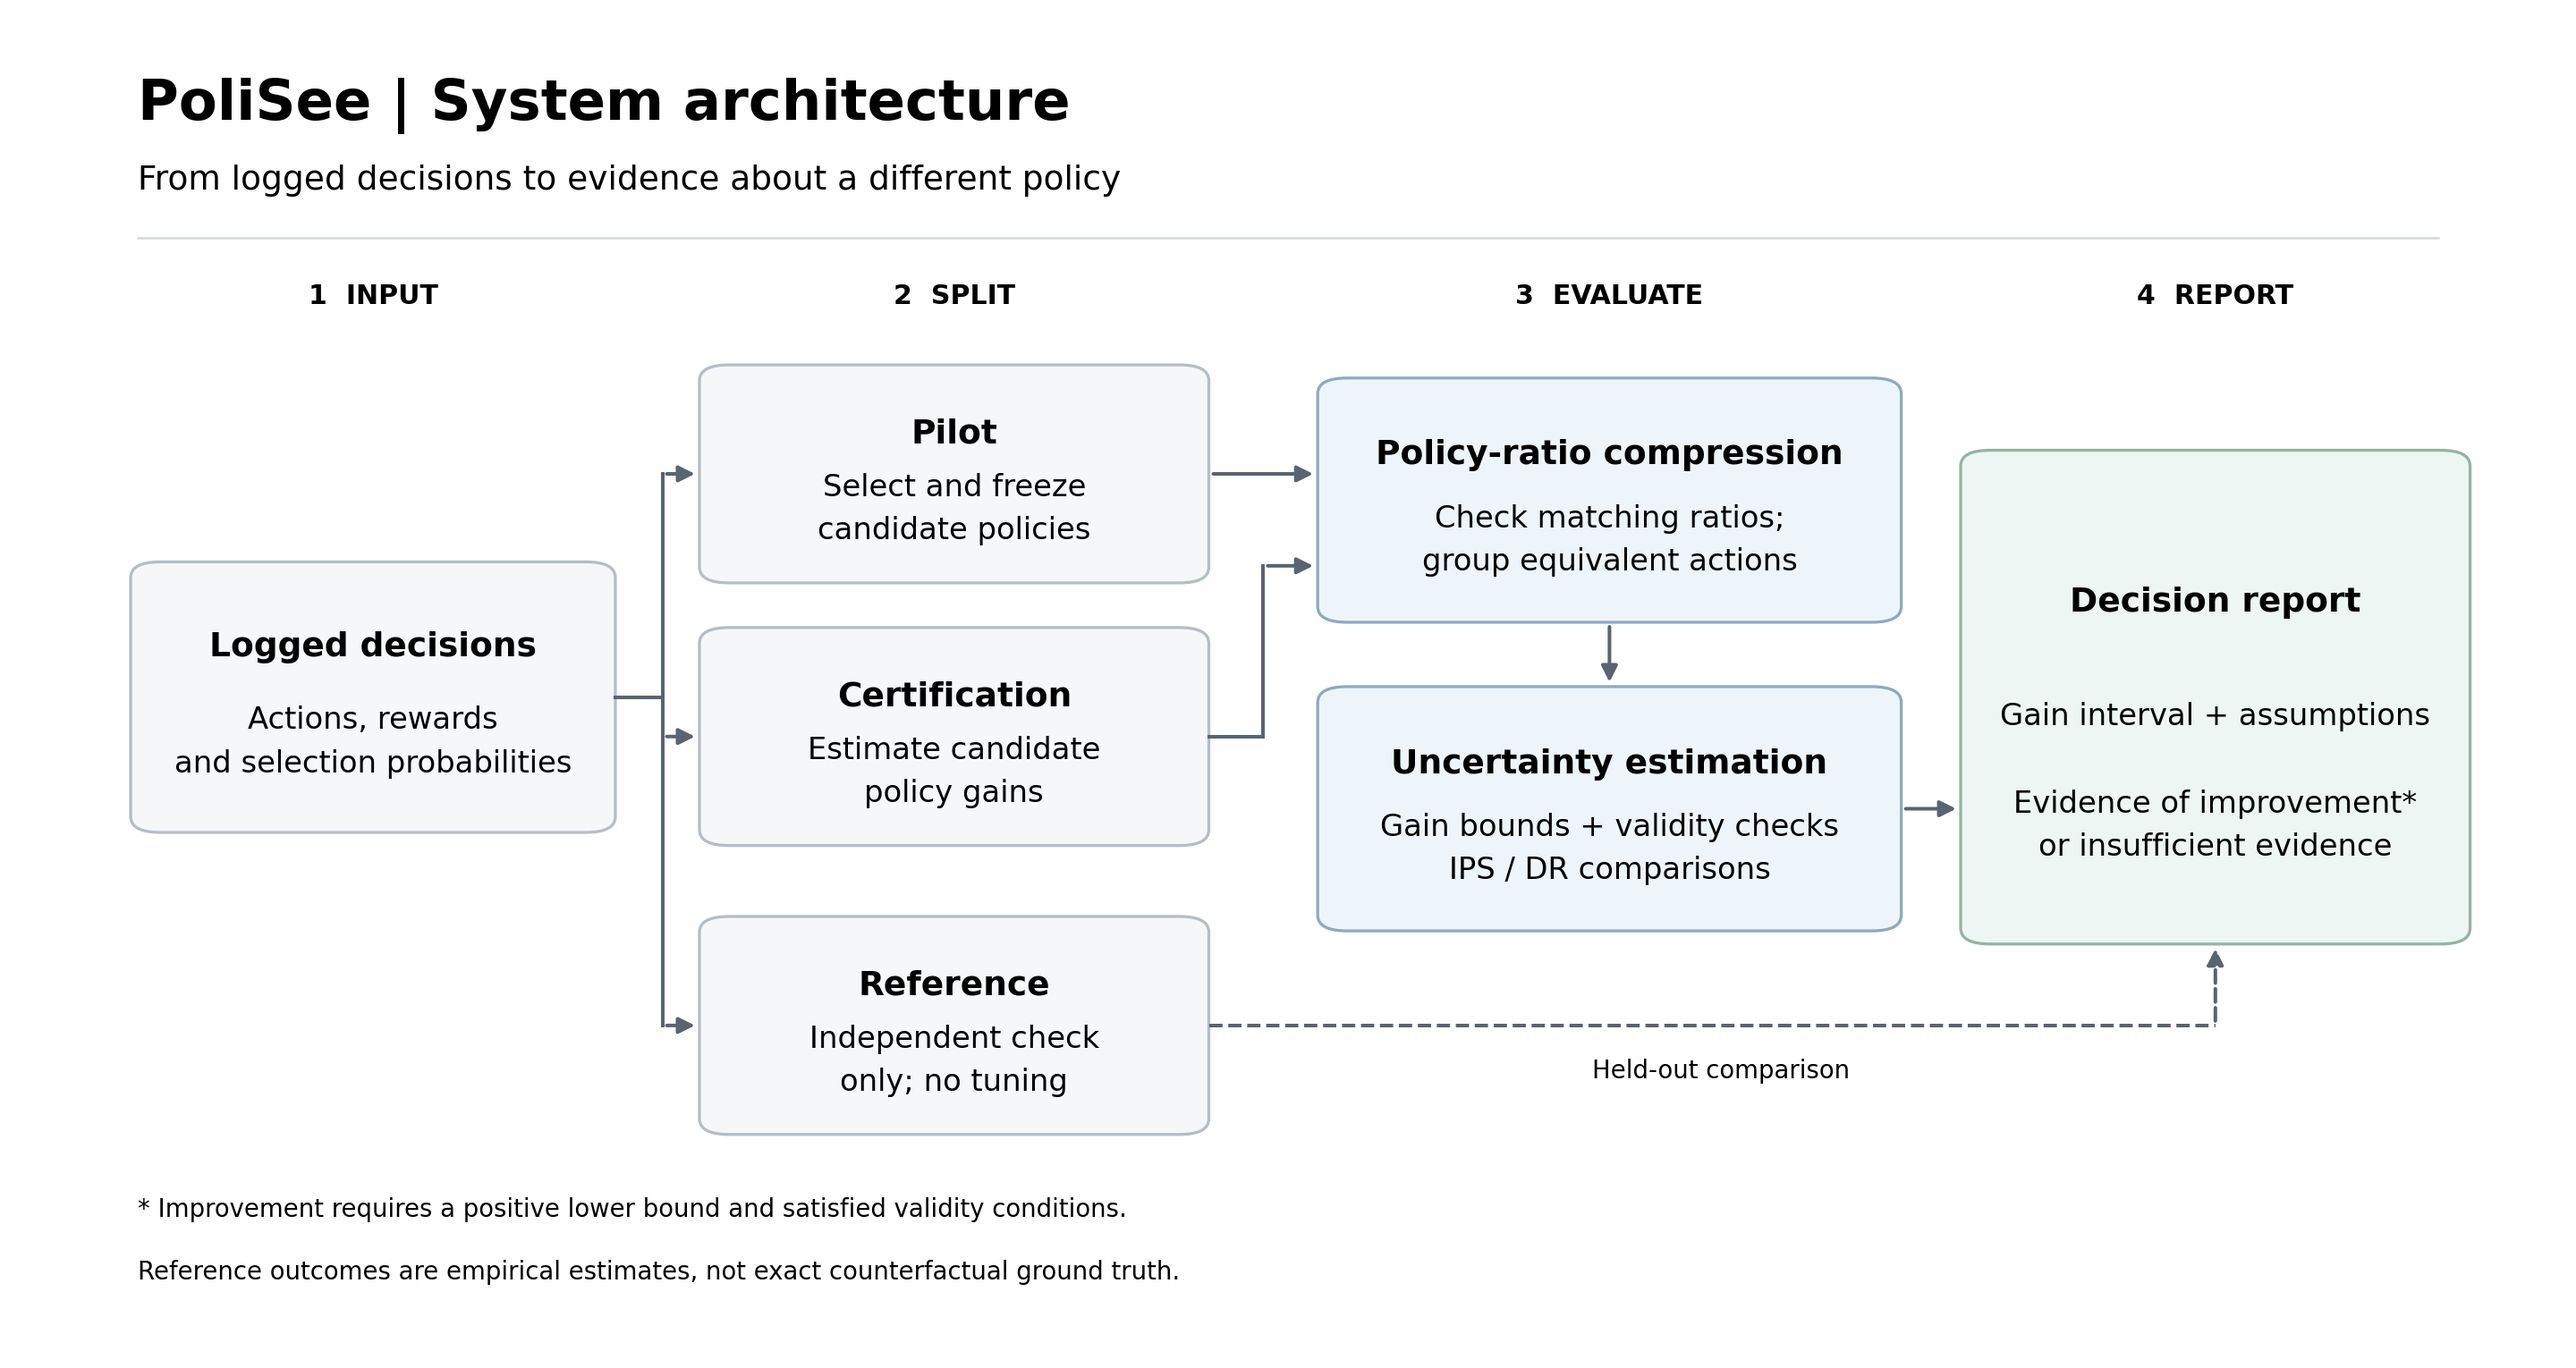
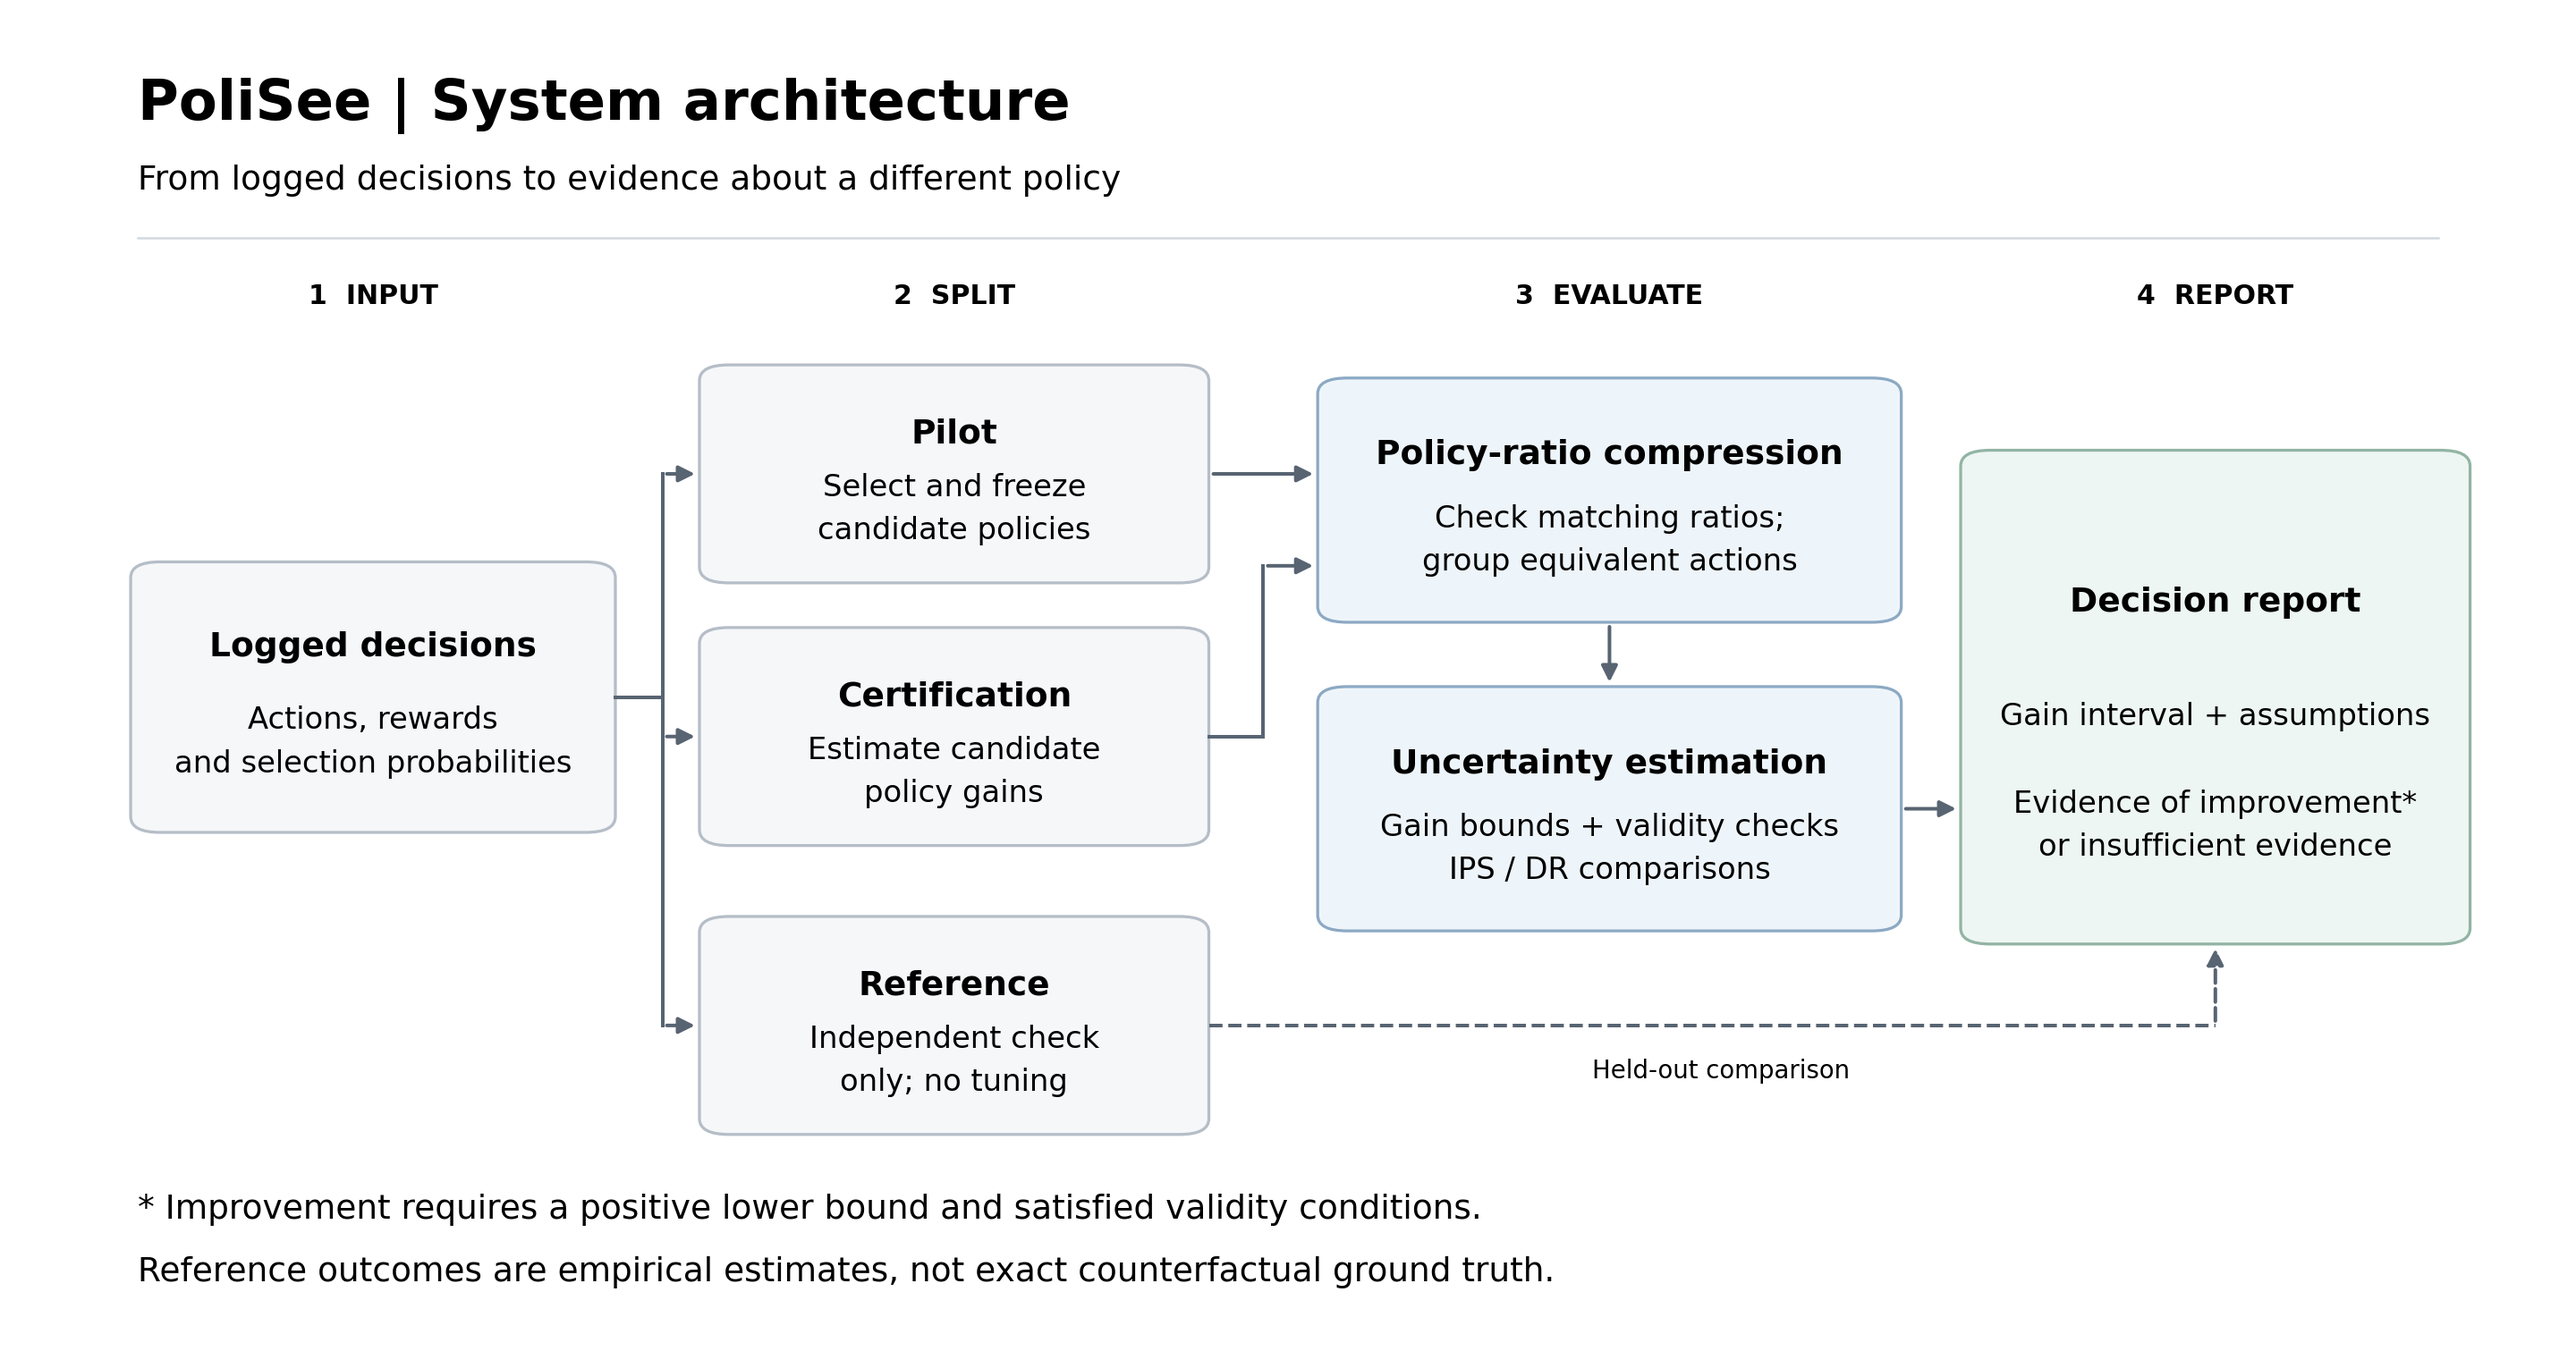
Justify abstract paragraphs and enlarge architecture notes

Changed region(s): [[0.0625, 0.9216, 0.5938, 0.9523], [0.0625, 0.8601, 0.5625, 0.8908]]

diff --git a/obd_research_2026_10_30/build_submission.py b/obd_research_2026_10_30/build_submission.py
@@ -29,8 +29,8 @@ def clean(s):
     for old,new in [('—','-'),('–','-'),('−','-'),('‑','-'),('“','"'),('”','"'),('’',"'")]:s=s.replace(old,new)
     return s
 def markup(s):return re.sub(r'\*\*(.*?)\*\*',r'<b>\1</b>',escape(clean(s)))
-def para(c,text,x,y,w,size=9.5,leading=12.5,color=INK,bold=False):
-    p=Paragraph(markup(text),ParagraphStyle('p',fontName='DVB' if bold else 'DV',fontSize=size,leading=leading,textColor=color))
+def para(c,text,x,y,w,size=9.5,leading=12.5,color=INK,bold=False,justify=False):
+    p=Paragraph(markup(text),ParagraphStyle('p',fontName='DVB' if bold else 'DV',fontSize=size,leading=leading,textColor=color,alignment=4 if justify else 0))
     _,h=p.wrap(w,1000);p.drawOn(c,x,y-h);return y-h
 def footer(c,page):
     c.setStrokeColor(LINE);c.line(42,37,W-42,37);c.setFont('DV',CAPTION_SIZE);c.setFillColor(INK)
@@ -64,11 +64,11 @@ def abstract_page(c,text):
         if kind=='head' and s=='Novelty and differentiation':
             footer(c,1);c.showPage();page=2;header(c)
             y=805
-        y=para(c,s,42,y,W-84,12 if kind=='head' else size,15 if kind=='head' else 13.3,INK,kind=='head')
+        y=para(c,s,42,y,W-84,12 if kind=='head' else size,15 if kind=='head' else 13.3,INK,kind=='head',justify=kind=='body')
         y-=5 if kind=='head' else 8
         if y<49:raise RuntimeError(f'Abstract page {page} overflow at {s[:40]}')
     y=chart(c,'02_policy_certificate.png',42,y-2,W-84)
-    y=para(c,'Primary OBD split, selected top-20 candidate. Finite-sample methods account for the five-candidate family; DR/Wald is asymptotic. The shaded band describes uncertainty in the independent reference, not counterfactual ground truth.',42,y-6,W-84,10.2,13.3)
+    y=para(c,'Primary OBD split, selected top-20 candidate. Finite-sample methods account for the five-candidate family; DR/Wald is asymptotic. The shaded band describes uncertainty in the independent reference, not counterfactual ground truth.',42,y-6,W-84,10.2,13.3,justify=True)
     if y<49:raise RuntimeError(f'Certificate figure overflow: {y}')
     footer(c,2);return size
 
@@ -96,11 +96,11 @@ def evidence_page(c):
         para(c,title,x+8,702,139,CAPTION_SIZE,CAPTION_LEADING,bold=True);para(c,body,x+8,687,139,CAPTION_SIZE,CAPTION_LEADING)
     para(c,'Exact reduction: Δ = (1-k/A) × (q_top - q_rest). Unequal item rewards are allowed.',42,653,W-84,CAPTION_SIZE,CAPTION_LEADING,bold=True)
     y=chart(c,'01_obd_counterfactual.png',42,634,W-84)
-    y=para(c,'A. Men’s campaign, first position: 1,358,878 BTS rows and 150,936 Random rows. Bars: pointwise 95% Wald intervals. Raw BTS CTR is a naive proxy; Random CTR is an independent empirical reference.',42,y-6,W-84,CAPTION_SIZE,CAPTION_LEADING)
+    y=para(c,'A. Men’s campaign, first position: 1,358,878 BTS rows and 150,936 Random rows. Bars: pointwise 95% Wald intervals. Raw BTS CTR is a naive proxy; Random CTR is an independent empirical reference.',42,y-6,W-84,CAPTION_SIZE,CAPTION_LEADING,justify=True)
     y=chart(c,'03_ablation.png',42,y-16,W-84)
-    y=para(c,'B. Random/all: five pilot-learned candidates; 183,450 certification rows. Intervals account for candidate selection. Median paired width reduction: 82.6% versus original item likelihood. Grouped exact is the recommended procedure.',42,y-6,W-84,CAPTION_SIZE,CAPTION_LEADING)
-    y=para(c,'Validation: 8,000 synthetic logs × 11 methods; 16 tests. Dependence, drift and slate interference remain limitations. All comparisons are retained.',42,y-9,W-84,CAPTION_SIZE,CAPTION_LEADING)
-    y=para(c,'Sources: Saito et al. (2021); Wasserman et al. (2020); Saito & Joachims (2022); Lee et al. (2026). References, code and results: github.com/ayushman4107/Perceptron-Hackathon',42,y-8,W-84,CAPTION_SIZE,CAPTION_LEADING)
+    y=para(c,'B. Random/all: five pilot-learned candidates; 183,450 certification rows. Intervals account for candidate selection. Median paired width reduction: 82.6% versus original item likelihood. Grouped exact is the recommended procedure.',42,y-6,W-84,CAPTION_SIZE,CAPTION_LEADING,justify=True)
+    y=para(c,'Validation: 8,000 synthetic logs × 11 methods; 16 tests. Dependence, drift and slate interference remain limitations. All comparisons are retained.',42,y-9,W-84,CAPTION_SIZE,CAPTION_LEADING,justify=True)
+    y=para(c,'Sources: Saito et al. (2021); Wasserman et al. (2020); Saito & Joachims (2022); Lee et al. (2026). References, code and results: github.com/ayushman4107/Perceptron-Hackathon',42,y-8,W-84,CAPTION_SIZE,CAPTION_LEADING,justify=True)
     c.linkURL('https://github.com/ayushman4107/Perceptron-Hackathon',(42,y-2,W-42,y+25),relative=0)
     if y<47:raise RuntimeError(f'Evidence page overflow: bottom {y}')
     footer(c,3);return y

diff --git a/obd_research_2026_10_30/build_architecture.py b/obd_research_2026_10_30/build_architecture.py
@@ -38,7 +38,7 @@ box(.875,.49,.19,.36,'Decision report','Gain interval + assumptions\n\nEvidence 
 arrow([(.748,.405),(.772,.405)])
 arrow([(.468,.24),(.875,.24),(.875,.302)],True)
 text(.675,.205,'Held-out comparison',11)
-text(.035,.10,'* Improvement requires a positive lower bound and satisfied validity conditions.',11,ha='left')
-text(.035,.052,'Reference outcomes are empirical estimates, not exact counterfactual ground truth.',11,ha='left')
+text(.035,.10,'* Improvement requires a positive lower bound and satisfied validity conditions.',15,ha='left')
+text(.035,.052,'Reference outcomes are empirical estimates, not exact counterfactual ground truth.',15,ha='left')
 for ext in ['png','svg','pdf']:
  fig.savefig(ROOT/'figures'/f'06_polisee_architecture.{ext}',dpi=180,facecolor='white')
